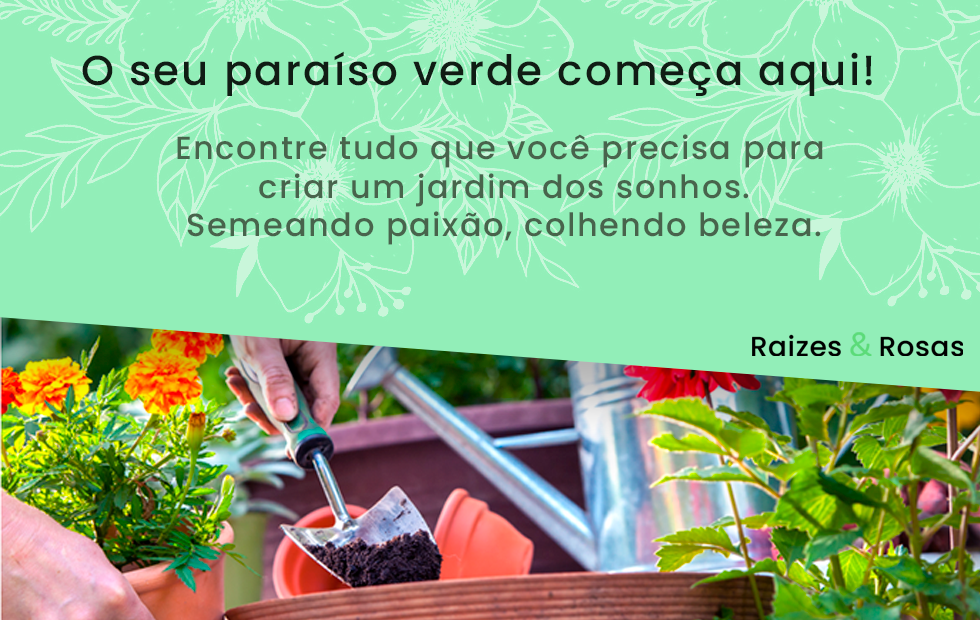
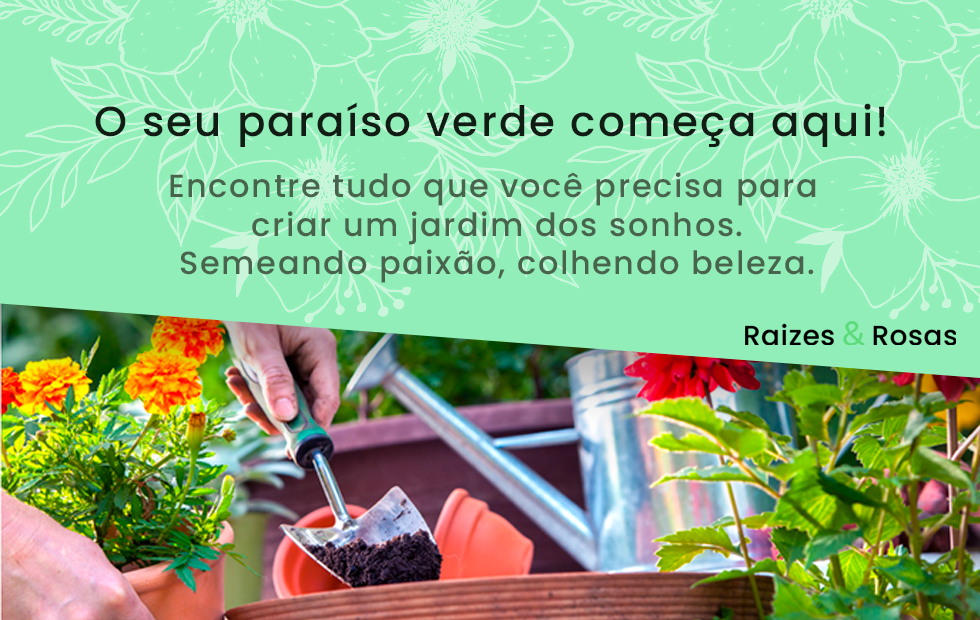
atualizando display para mobile

Changed region(s): [[0.0, 0.0, 1.0, 0.6435]]

diff --git a/src/Componentes/Banner/index.js b/src/Componentes/Banner/index.js
@@ -2,19 +2,18 @@ import React, { useState } from 'react'
 import styled from 'styled-components'
 import imagemLG from './banner-lg.png'
 import imagemMD from './banner-md.png'
+import imagemSM from "./banner-sm.png"
 
 const BannerEstilizado = styled.img`
 width: 100%;
-@media screen and (max-width: 1180px){
-  
-}
+
 `
 
-export default function Banner() {
-  const [tamanhoBanner, setTamanhoBanner] = useState(imagemLG)
+export default function Banner( ) {  
     
-    
+  const larguraTela = window.innerWidth;
+  console.log(larguraTela)
   return (
-    <BannerEstilizado on src={imagemLG}/>
+    <BannerEstilizado src={larguraTela >= 768 ?imagemLG : larguraTela >= 490 ? imagemMD : imagemSM}/>
   )
 }

diff --git a/src/Componentes/GridDeCards/index.js b/src/Componentes/GridDeCards/index.js
@@ -31,7 +31,6 @@ export default function GridDeCards({lista, qtdDeCards, itemParafiltro }) {
   
   itemParafiltro ? console.log("tem filtro"): console.log("Nao tem filtro");
 
-  console.log(lista)
   // Filtro por categoria de item
     const listaFiltrada = itemParafiltro ? 
     lista.filter((produto) => {
@@ -43,7 +42,7 @@ export default function GridDeCards({lista, qtdDeCards, itemParafiltro }) {
       }
       }).concat(lista).reverse() : 
       lista;
-      console.log(listaFiltrada)
+
     //Quantificação de itens da lista
     const listaFinal = qtdDeCards ? listaFiltrada.slice(-(qtdDeCards)).reverse() : listaFiltrada;
   return (

diff --git a/src/Paginas/PaginaHome/index.js b/src/Paginas/PaginaHome/index.js
@@ -7,12 +7,15 @@ import styled from 'styled-components'
 
 const PaginaHomeEstilizada = styled.main`
 
+@media screen and (max-width: 580px){
+  
+}
 `
 
 export default function PaginaHome() {
   return (
     <PaginaHomeEstilizada>
-      <Banner/>
+      <Banner />
       <Titulo>Produtos em Destaque</Titulo>
         <GridDeCards ItemParafiltro={false} lista={produtos}/>
     </PaginaHomeEstilizada>
